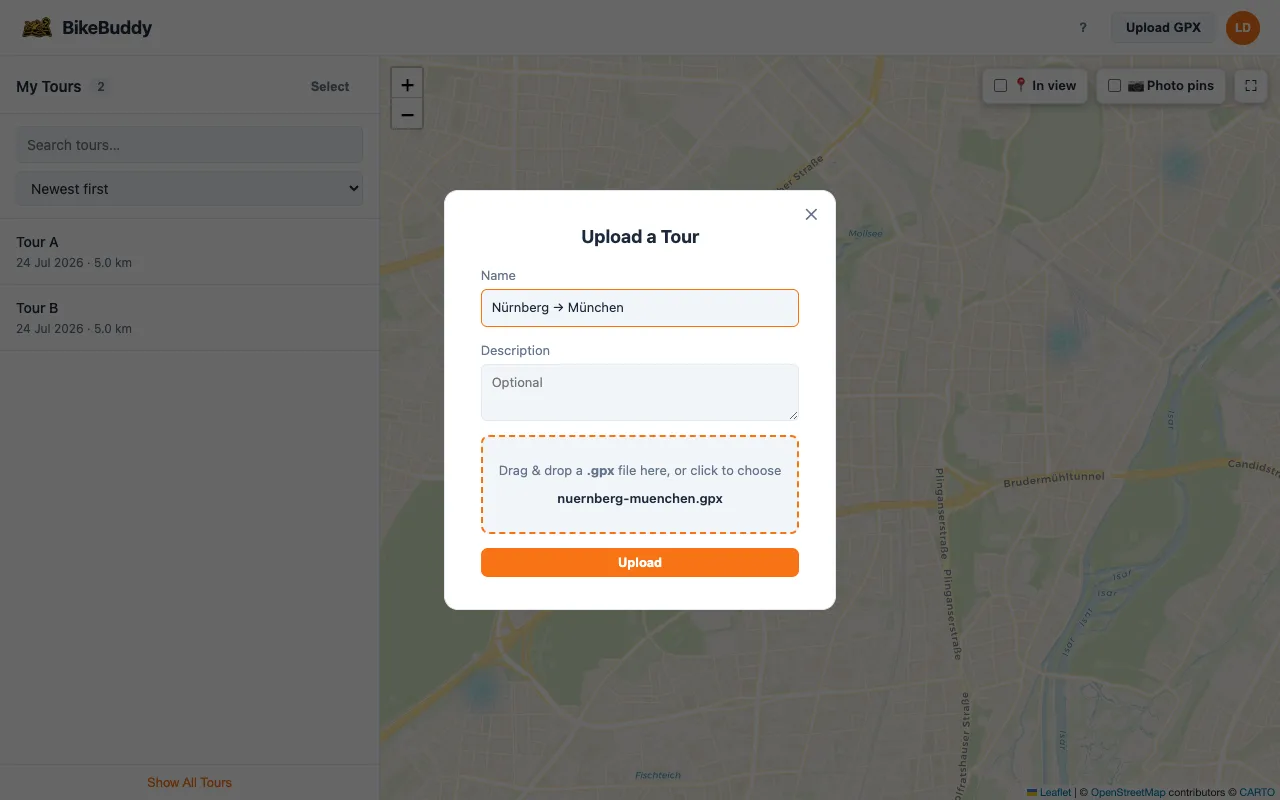
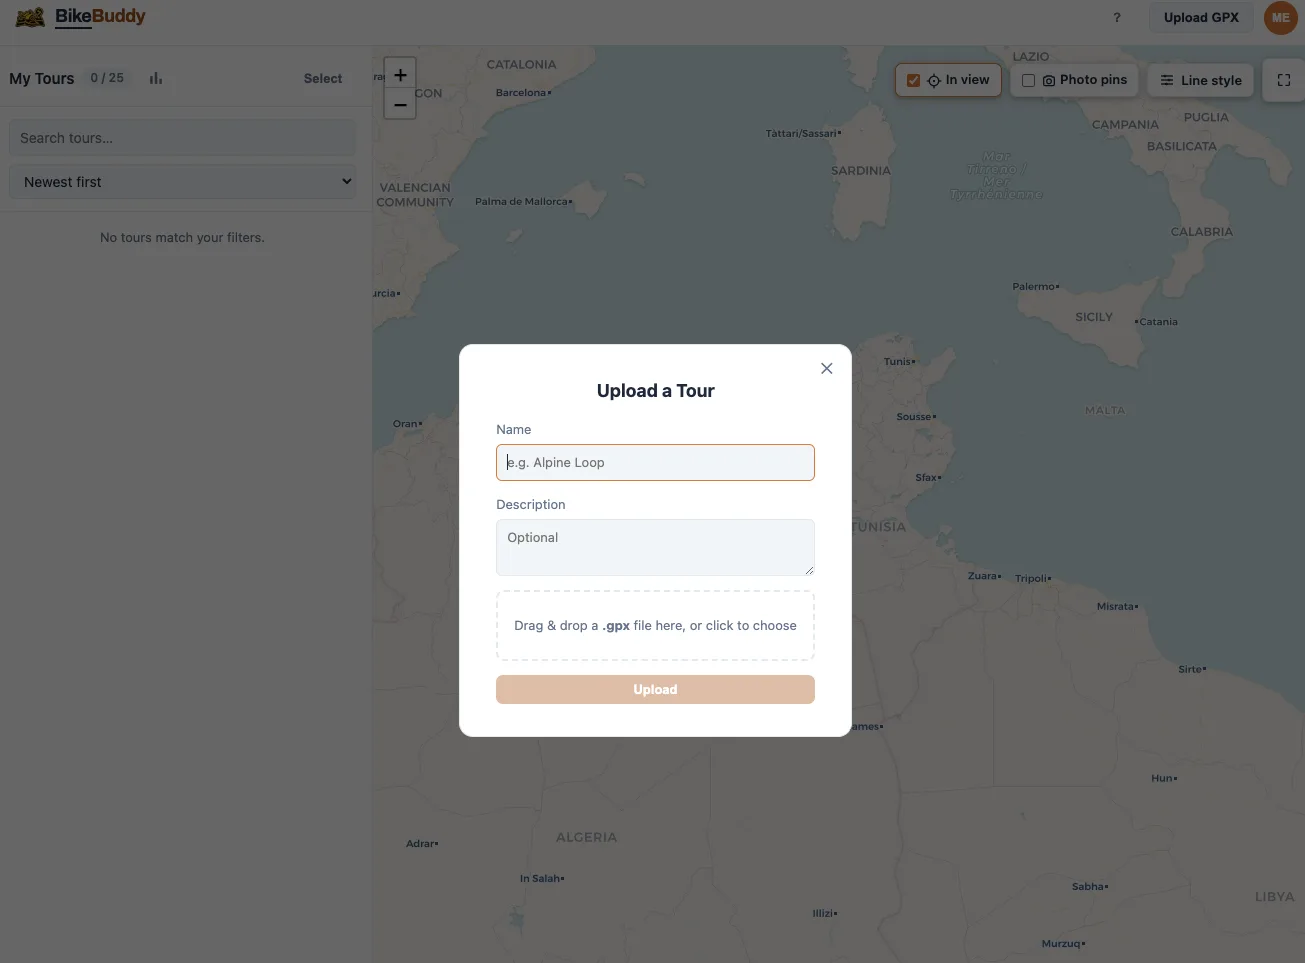
Update BikeBuddy screenshots with current UI, drop heatmap language
Swaps in the current map, upload, and tour-detail screenshots from the
BikeBuddy repo. The map view now shows individual tour polylines rather
than a blended heatmap, so the copy in the tool description, tools.ts
metadata, and screenshot captions is updated to match, and the line-style
(color/width/opacity) controls are now called out under Tour Details,
where the settings panel is actually shown.

diff --git a/web-buddy/src/app/tools/bikebuddy/client.tsx b/web-buddy/src/app/tools/bikebuddy/client.tsx
@@ -7,18 +7,18 @@ const imageDir = "/images/bike-buddy";
 const screenshots: ToolScreenshot[] = [
   {
     src: "map.webp",
-    alt: "Heatmap Overview",
-    text: "See every tour you've ever ridden on a single heatmap, with cycling and motorcycling routes color-blended by frequency. Filter to what's currently in view, toggle photo pins, and jump straight into any tour from the sidebar.",
+    alt: "Map Overview",
+    text: "See every tour you've ever ridden drawn as routes on a single map. Filter to what's currently in view, toggle photo pins, and jump straight into any tour from the sidebar.",
   },
   {
     src: "upload.webp",
     alt: "Upload a GPX Tour",
-    text: "Drag and drop a .gpx file straight from your bike computer or phone, give it a name and optional description, and BikeBuddy takes care of the rest, parsing the track and adding it to your heatmap in seconds.",
+    text: "Drag and drop a .gpx file straight from your bike computer or phone, give it a name and optional description, and BikeBuddy takes care of the rest, parsing the track and adding it to your map in seconds.",
   },
   {
     src: "detail.webp",
     alt: "Tour Details & Photos",
-    text: "Every tour keeps its date, distance, and a gallery of photos you attach along the way. Drop in JPEG or PNG images to pin memories to the ride, or edit and delete tours as your archive grows.",
+    text: "Every tour keeps its date, distance, and a gallery of photos you attach along the way. Drop in JPEG or PNG images to pin memories to the ride, fine-tune the route line's color, width, and opacity, or edit and delete tours as your archive grows.",
   },
 ];
 
@@ -51,7 +51,7 @@ export default function BikeBuddyClient({
       media="image"
       techStack={techStack}
       description={
-        <p><strong>BikeBuddy</strong> turns your GPX tours, cycling or motorcycling, into a living heatmap of every road you&apos;ve ever ridden. Upload a track, attach photos from along the way, and watch your personal riding history build up on the map.</p>
+        <p><strong>BikeBuddy</strong> turns your GPX tours, cycling or motorcycling, into a map of every road you&apos;ve ever ridden. Upload a track, attach photos from along the way, and watch your personal riding history build up on the map.</p>
       }
     />
   );

diff --git a/web-buddy/src/app/tools/tools.ts b/web-buddy/src/app/tools/tools.ts
@@ -93,7 +93,7 @@ export const tools: Tool[] = [
     name: "BikeBuddy",
     tagline: "Your ride, your routes, your memories",
     description:
-      "Upload GPX tours, visualize them as heatmaps, and attach photos. Powered by Azure Functions and Cosmos DB.",
+      "Upload GPX tours, visualize them on a map, and attach photos. Powered by Azure Functions and Cosmos DB.",
     logo: "/logos/bike.webp",
     previewImage: "/logos/bike_preview.webp",
     previewImageWidth: 1280,
